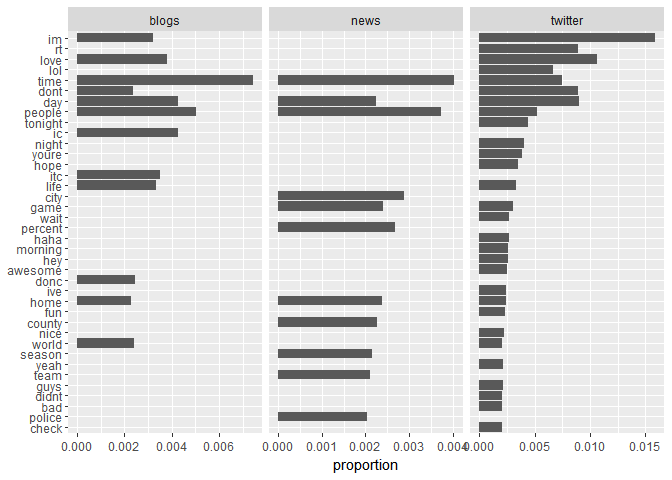
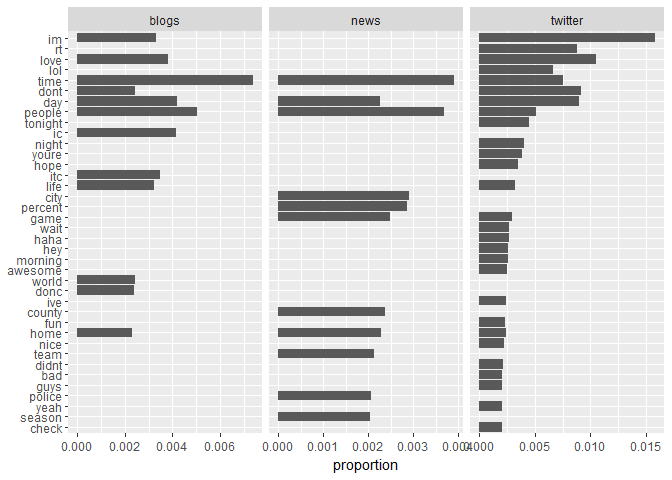
Completed EDA

diff --git a/02_Task_Script.md b/02_Task_Script.md
@@ -8,12 +8,6 @@ Mark Blackmore
 
 This script uses the tidy data principles applied to text mining, as outlined in [Text Mining with R: A Tidy Approach](http://tidytextmining.com/).
 
-Using this approach, we are able to use the **entire data set** as opposed to data sampling approach required by the memory constraints of the `tm` package. After exploring the entire data set, we then reduce the data based on frequency.
-
-``` r
-start <- Sys.time()
-```
-
 2. Data loading and cleaning
 ----------------------------
 
@@ -63,7 +57,7 @@ boxplot(blogs_nchar, news_nchar, twitter_nchar, log = "y",
 title("Comparing Distributions of Chracters per Line")
 ```
 
-![](02_Task_Script_files/figure-markdown_github-ascii_identifiers/unnamed-chunk-6-1.png)
+![](02_Task_Script_files/figure-markdown_github-ascii_identifiers/unnamed-chunk-5-1.png)
 
 Total characters per file
 
@@ -109,6 +103,28 @@ news    <- data_frame(text = news)
 twitter <- data_frame(text = twitter)
 ```
 
+Sample the data
+
+``` r
+sample_pct <- 0.1
+
+blogs_sample <- blogs %>%
+  sample_n(., nrow(blogs)*sample_pct)
+news_sample <- news %>%
+  sample_n(., nrow(news)*sample_pct)
+twitter_sample <- twitter %>%
+  sample_n(., nrow(twitter)*sample_pct)
+```
+
+Create tidy repository
+
+``` r
+repo_sample <- bind_rows(mutate(blogs_sample, source = "blogs"),
+                         mutate(news_sample,  source = "news"),
+                         mutate(twitter_sample, source = "twitter")) 
+repo_sample$source <- as.factor(repo_sample$source)
+```
+
 Create filters: stopwords, profanity, non-alphanumeric's, url's, repeated letters(+3x)
 
 ``` r
@@ -128,45 +144,14 @@ replace_url <- "http[^[:space:]]*"
 replace_aaa <- "\\b(?=\\w*(\\w)\\1)\\w+\\b"  
 ```
 
-Clean dataframes from each souce. Cleaning is separted from tidying so `unnest_tokens` function can be used for words, and ngrams.
+Clean the sample. Cleaning is separted from tidying so `unnest_tokens` function can be used for words, and ngrams.
 
 ``` r
-clean_blogs <-  blogs %>%
+clean_sample <-  repo_sample %>%
   mutate(text = str_replace_all(text, replace_reg, "")) %>%
   mutate(text = str_replace_all(text, replace_url, "")) %>%
   mutate(text = str_replace_all(text, replace_aaa, "")) %>%  
   mutate(text = iconv(text, "ASCII//TRANSLIT"))
-
-clean_news <-   news %>%
-  mutate(text = str_replace_all(text, replace_reg, "")) %>%
-  mutate(text = str_replace_all(text, replace_url, "")) %>%
-  mutate(text = str_replace_all(text, replace_aaa, "")) %>%  
-  mutate(text = iconv(text, "ASCII//TRANSLIT"))
-
-clean_twitter <- twitter %>%
-  mutate(text = str_replace_all(text, replace_reg, "")) %>%
-  mutate(text = str_replace_all(text, replace_url, "")) %>%
-  mutate(text = str_replace_all(text, replace_aaa, "")) %>%  
-  mutate(text = iconv(text, "ASCII//TRANSLIT"))
-
-#######
-sample_pct <- 0.05
-
-blogs_sample <- clean_blogs %>%
-  sample_n(., nrow(clean_blogs)*sample_pct)
-news_sample <- clean_news %>%
-  sample_n(., nrow(clean_news)*sample_pct)
-twitter_sample <- clean_twitter %>%
-  sample_n(., nrow(clean_twitter)*sample_pct)
-```
-
-Create tidy repository
-
-``` r
-repo_sample <- bind_rows(mutate(blogs_sample, source = "blogs"),
-                         mutate(news_sample,  source = "news"),
-                         mutate(twitter_sample, source = "twitter")) 
-repo_sample$source <- as.factor(repo_sample$source)
 ```
 
 Clean up
@@ -179,7 +164,7 @@ x <- gc()
 Create tidy dataframe for repo sample
 
 ``` r
-tidy_repo <- repo_sample %>%
+tidy_repo <- clean_sample %>%
   unnest_tokens(word, text) %>%
   anti_join(swear_words) %>%
   anti_join(stop_words)
@@ -201,7 +186,7 @@ Word counts: Number of unique words in repo
     ## # A tibble: 1 x 1
     ##     keys
     ##    <int>
-    ## 1 111162
+    ## 1 164558
 
 Number of words to attain 50% and 90% coverage of all words in repo
 
@@ -215,7 +200,7 @@ cover_50 <- tidy_repo %>%
 nrow(cover_50)
 ```
 
-    ## [1] 1318
+    ## [1] 1311
 
 ``` r
 cover_90 <- tidy_repo %>%
@@ -227,12 +212,26 @@ cover_90 <- tidy_repo %>%
 nrow(cover_90)
 ```
 
-    ## [1] 17853
+    ## [1] 18005
 
 4. Word distributions
 ---------------------
 
-Most frequent words by proportion, with source
+Word distribution
+
+``` r
+cover_90 %>%
+  top_n(20, proportion) %>%
+  mutate(word = reorder(word, proportion)) %>%
+  ggplot(aes(word, proportion)) +
+  geom_col() +
+  xlab(NULL) +
+  coord_flip()
+```
+
+![](02_Task_Script_files/figure-markdown_github-ascii_identifiers/unnamed-chunk-16-1.png)
+
+Word distribution by source
 
 ``` r
 freq <- tidy_repo %>%
@@ -242,54 +241,7 @@ freq <- tidy_repo %>%
   spread(source, proportion) %>%
   gather(source, proportion, `blogs`:`twitter`) %>%
   arrange(desc(proportion), desc(n))
-kable(head(freq, 10))
-```
 
-| word   |     n| source  |  proportion|
-|:-------|-----:|:--------|-----------:|
-| im     |  7980| twitter |   0.0160675|
-| love   |  5352| twitter |   0.0107761|
-| dont   |  4509| twitter |   0.0090787|
-| day    |  4417| twitter |   0.0088935|
-| rt     |  4252| twitter |   0.0085613|
-| time   |  3755| twitter |   0.0075606|
-| time   |  4397| blogs   |   0.0074816|
-| lol    |  3287| twitter |   0.0066183|
-| people |  2958| blogs   |   0.0050331|
-| people |  2454| twitter |   0.0049410|
-
-Words above cutoff proportion: number of unique words
-
-``` r
-cutoff <- 0.0001
-(small_repo_count <- freq %>%
-    filter(proportion > cutoff) %>%
-    summarise(keys = n_distinct(word)))
-```
-
-    ## # A tibble: 1 x 1
-    ##    keys
-    ##   <int>
-    ## 1  2938
-
-Word distribution by count
-
-``` r
-cover_90 %>%
-  #count(word, sort = TRUE) %>%
-  filter(n > 35000) %>%
-  mutate(word = reorder(word, n)) %>%
-  ggplot(aes(word, n)) +
-  geom_col() +
-  xlab(NULL) +
-  coord_flip()
-```
-
-![](02_Task_Script_files/figure-markdown_github-ascii_identifiers/unnamed-chunk-19-1.png)
-
-Word distribution by source
-
-``` r
 freq %>%
   filter(proportion > 0.002) %>% 
   mutate(word = reorder(word, proportion)) %>% 
@@ -300,7 +252,7 @@ freq %>%
   facet_grid(~source, scales = "free")
 ```
 
-![](02_Task_Script_files/figure-markdown_github-ascii_identifiers/unnamed-chunk-20-1.png)
+![](02_Task_Script_files/figure-markdown_github-ascii_identifiers/unnamed-chunk-17-1.png)
 
 Word cloud
 
@@ -311,7 +263,7 @@ cover_90 %>%
                  colors = brewer.pal(6, 'Dark2'), random.order = FALSE))
 ```
 
-![](02_Task_Script_files/figure-markdown_github-ascii_identifiers/unnamed-chunk-21-1.png)
+![](02_Task_Script_files/figure-markdown_github-ascii_identifiers/unnamed-chunk-18-1.png)
 
 5. Bigrams
 ----------
@@ -322,7 +274,7 @@ Create bigrams by source using `unnest_tokens`
 rm(tidy_repo)
 x <- gc()
 
-bigram_repo <- repo_sample  %>%
+bigram_repo <- clean_sample  %>%
   unnest_tokens(bigram, text, token = "ngrams", n = 2)
 ```
 
@@ -338,13 +290,13 @@ bigram_cover_90 <- bigram_repo %>%
 nrow(bigram_cover_90)
 ```
 
-    ## [1] 932860
+    ## [1] 1424441
 
 Bigram distribution
 
 ``` r
 bigram_cover_90 %>%
-  top_n(10, proportion) %>%
+  top_n(20, proportion) %>%
   mutate(bigram = reorder(bigram, proportion)) %>%
   ggplot(aes(bigram, proportion)) +
   geom_col() +
@@ -352,11 +304,7 @@ bigram_cover_90 %>%
   coord_flip()
 ```
 
-![](02_Task_Script_files/figure-markdown_github-ascii_identifiers/unnamed-chunk-24-1.png)
-
-``` r
-##############
-```
+![](02_Task_Script_files/figure-markdown_github-ascii_identifiers/unnamed-chunk-21-1.png)
 
 6. Trigrams
 -----------
@@ -364,7 +312,7 @@ bigram_cover_90 %>%
 Create Trigrams by source using `unnest_tokens`
 
 ``` r
-trigram_repo <- repo_sample  %>%
+trigram_repo <- clean_sample  %>%
   unnest_tokens(trigram, text, token = "ngrams", n = 3)
 ```
 
@@ -380,13 +328,13 @@ trigram_cover_90 <- trigram_repo %>%
 nrow(trigram_cover_90)
 ```
 
-    ## [1] 2827476
+    ## [1] 5168063
 
 trigram distribution
 
 ``` r
 trigram_cover_90 %>%
-  top_n(10, proportion) %>%
+  top_n(20, proportion) %>%
   mutate(trigram = reorder(trigram, proportion)) %>%
   ggplot(aes(trigram, proportion)) +
   geom_col() +
@@ -394,7 +342,7 @@ trigram_cover_90 %>%
   coord_flip()
 ```
 
-![](02_Task_Script_files/figure-markdown_github-ascii_identifiers/unnamed-chunk-26-1.png)
+![](02_Task_Script_files/figure-markdown_github-ascii_identifiers/unnamed-chunk-23-1.png)
 
 7. Quadgrams
 ------------
@@ -402,7 +350,7 @@ trigram_cover_90 %>%
 Create quadgrams by source using `unnest_tokens`
 
 ``` r
-quadgram_repo <- repo_sample  %>%
+quadgram_repo <- clean_sample  %>%
   unnest_tokens(quadgram, text, token = "ngrams", n = 4)
 ```
 
@@ -418,13 +366,13 @@ quadgram_cover_90 <- quadgram_repo %>%
 nrow(quadgram_cover_90)
 ```
 
-    ## [1] 3766212
+    ## [1] 7327969
 
 quadgram distribution
 
 ``` r
 quadgram_cover_90 %>%
-  top_n(10, proportion) %>%
+  top_n(20, proportion) %>%
   mutate(quadgram = reorder(quadgram, proportion)) %>%
   ggplot(aes(quadgram, proportion)) +
   geom_col() +
@@ -432,7 +380,7 @@ quadgram_cover_90 %>%
   coord_flip()
 ```
 
-![](02_Task_Script_files/figure-markdown_github-ascii_identifiers/unnamed-chunk-28-1.png)
+![](02_Task_Script_files/figure-markdown_github-ascii_identifiers/unnamed-chunk-25-1.png)
 
 ``` r
 quadgrams_separated <- quadgram_cover_90 %>%
@@ -440,32 +388,28 @@ quadgrams_separated <- quadgram_cover_90 %>%
 quadgrams_separated
 ```
 
-    ## # A tibble: 3,766,212 x 7
+    ## # A tibble: 7,327,969 x 7
     ##    word1 word2 word3 word4     n   proportion     coverage
     ##  * <chr> <chr> <chr> <chr> <int>        <dbl>        <dbl>
-    ##  1   the   end    of   the   430 9.543749e-05 9.543749e-05
-    ##  2    at   the   end    of   366 8.123284e-05 1.766703e-04
-    ##  3   the  rest    of   the   348 7.723778e-05 2.539081e-04
-    ##  4   for   the first  time   316 7.013546e-05 3.240436e-04
-    ##  5    at   the  same  time   240 5.326744e-05 3.773110e-04
-    ##  6    is going    to    be   224 4.971627e-05 4.270273e-04
-    ##  7    is   one    of   the   217 4.816264e-05 4.751899e-04
-    ##  8   one    of   the  most   210 4.660901e-05 5.217989e-04
-    ##  9 going    to    be     a   195 4.327979e-05 5.650787e-04
-    ## 10  when    it comes    to   190 4.217005e-05 6.072488e-04
-    ## # ... with 3,766,202 more rows
+    ##  1   the   end    of   the   789 8.752530e-05 0.0000875253
+    ##  2   the  rest    of   the   692 7.676491e-05 0.0001642902
+    ##  3    at   the   end    of   678 7.521186e-05 0.0002395021
+    ##  4   for   the first  time   623 6.911060e-05 0.0003086127
+    ##  5    at   the  same  time   511 5.668622e-05 0.0003652989
+    ##  6    is going    to    be   422 4.681328e-05 0.0004121122
+    ##  7  when    it comes    to   417 4.625862e-05 0.0004583708
+    ##  8   one    of   the  most   405 4.492744e-05 0.0005032982
+    ##  9    is   one    of   the   402 4.459464e-05 0.0005478929
+    ## 10 going    to    be     a   390 4.326346e-05 0.0005911563
+    ## # ... with 7,327,959 more rows
 
 ``` r
 end <- Sys.time()
 
-(run_time <- end - start)
+(run_time <- end - start_time)
 ```
 
-    ## Time difference of 9.07025 mins
-
-``` r
-###############
-```
+    ## Time difference of 10.83154 mins
 
 ------------------------------------------------------------------------
 
